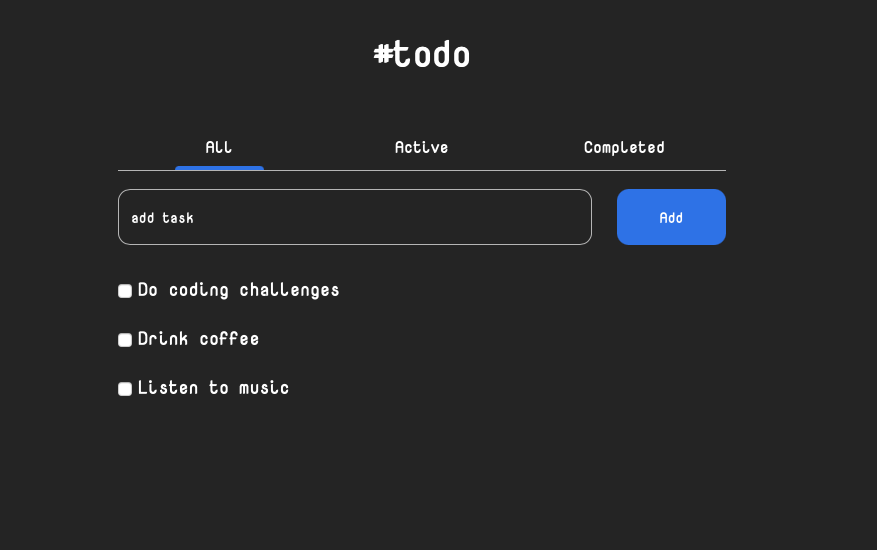
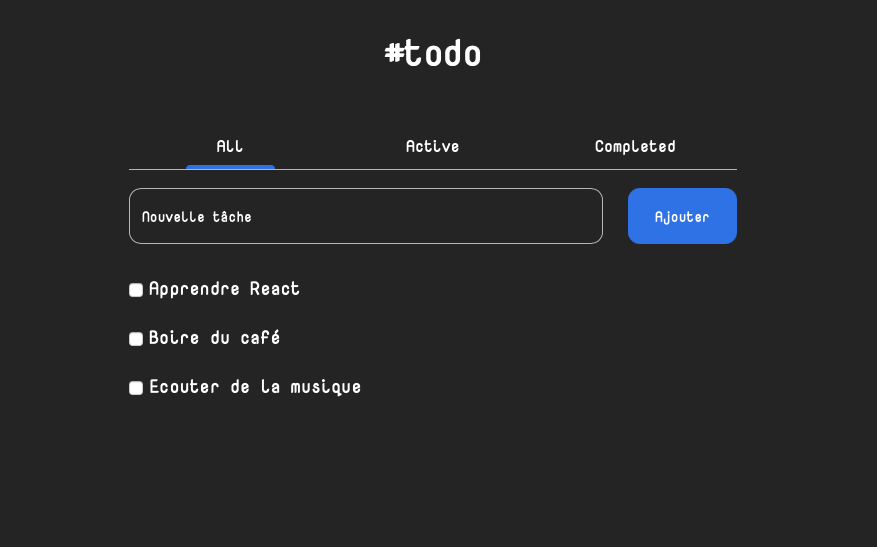
updates content

diff --git a/src/components/App/App.js b/src/components/App/App.js
@@ -13,7 +13,7 @@ function App() {
   // in case we have nothing in local storage
   const initialState = [
     {
-      content : "Apprendre React",
+      content : "Coder un nouveau projet",
       id : uuidv4(),
       completed : false
     },
@@ -21,12 +21,12 @@ function App() {
     {
       content : "Boire du café",
       id : uuidv4(),
-      completed : false
+      completed : true
     },
     {
       content : "Ecouter de la musique",
       id : uuidv4(),
-      completed : false
+      completed : true
     }
   ];
 
@@ -39,13 +39,10 @@ function App() {
   // what allows us to handle our loader
   const [loaderState, loaderSetState] = useState('');
   useEffect(() => {
-    const timer = setTimeout(()=>{
+      setTimeout(()=>{
       loaderSetState('loaded')
-    }, 2000)
-    return () => {
-      clearTimeout(timer)
-    }
-  }, [])
+    }, 2000);
+  }, []);
 
   return (
     
@@ -54,9 +51,9 @@ function App() {
         <h1>#todo</h1>
 
         <ul className = "filter-buttons-container">
-          <li><button className = {toggleState === "all" ? "all active " : "all " } onClick ={(e)=>{handleToggle(e)}}>All</button></li>
-          <li ><button className = {toggleState === "no-completed" ? "no-completed active " : "no-completed " } onClick ={(e)=>{handleToggle(e)}}>Active</button></li>
-          <li><button className = {toggleState === "completed" ? "completed active " : "completed " } onClick ={(e)=>{handleToggle(e)}}>Completed</button></li>
+          <li><button className = {toggleState === "all" ? "all active " : "all " } onClick ={(e)=>{handleToggle(e)}}>Toutes</button></li>
+          <li ><button className = {toggleState === "no-completed" ? "no-completed active " : "no-completed " } onClick ={(e)=>{handleToggle(e)}}>Actives</button></li>
+          <li><button className = {toggleState === "completed" ? "completed active " : "completed " } onClick ={(e)=>{handleToggle(e)}}>Completées</button></li>
         </ul> 
 
         <Form 

diff --git a/README.md b/README.md
@@ -1,6 +1,6 @@
 # Todo app
 
-Il s'agit là d'une `application todo liste`. C'est un challenge <a href = "https://devchallenges.io/challenges/hH6PbOHBdPm6otzw2De5">`challenge`</a> de `devchallenge.io`.
+Il s'agit là d'une `todo liste`, mais pas que ! Il faudrait visiter pour savoir.😁 
 
 ## Fonctionnalités
 * Ajouter une tâche
@@ -19,6 +19,7 @@ Note : J’utilise le `stockage local` pour garder la liste de tâches même apr
 Vous pouvez visiter en cliquant sur l'image ci-dessous ou sur le lien en bas de la section `About`.
 
 `Design de base récupéré chez devchallenge.io, adapté à mes goûts par mes soins !`
+
 <a href = "https://yousoumar.github.io/todo/"><img src = "screenshot.png"></img></a>
 
 
